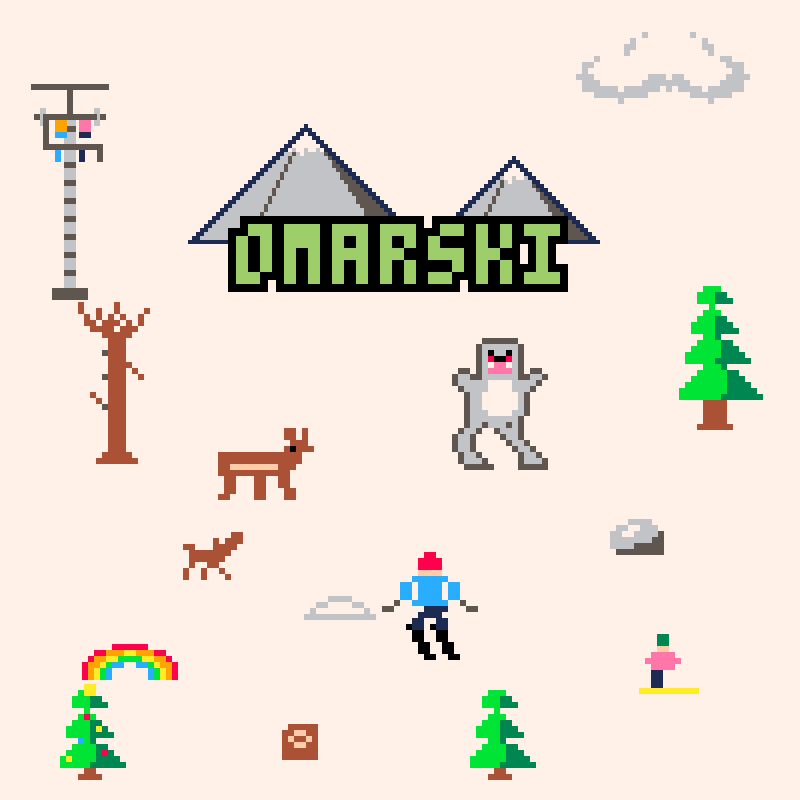
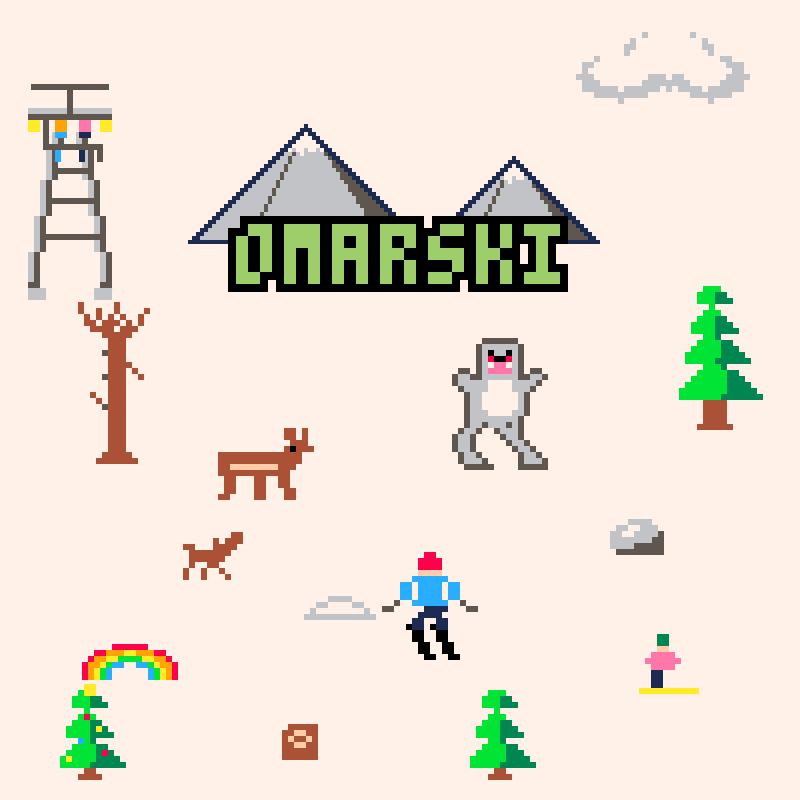
Omarski 4.3.1: rebuild the lift tower as a real A-frame pylon
The spindly lattice mast becomes a proper pylon: twin two-tone tube legs
spreading toward the ground, cross-braces every few metres, a full-width
crossarm with yellow cable sheaves hanging at each end, and concrete
footings at the base. Canvas grows to 14x32.

Changed region(s): [[0.0312, 0.125, 0.1562, 0.375]]

diff --git a/game/Sprites.js b/game/Sprites.js
@@ -187,7 +187,7 @@ var SIZES = {
   40: [15, 15], 41: [16, 16], 42: [16, 16], 43: [13, 15], 44: [15, 13],
   45: [12, 6], 46: [8, 6], 47: [8, 3], 48: [12, 4], 49: [14, 16],
   50: [11, 14], 51: [16, 32], 52: [16, 6], 53: [120, 44], 54: [88, 12],
-  55: [144, 26], 56: [96, 42], 64: [12, 32], 65: [13, 16], 66: [13, 16],
+  55: [144, 26], 56: [96, 42], 64: [14, 32], 65: [13, 16], 66: [13, 16],
   67: [13, 16], 68: [16, 24], 69: [16, 24], 70: [16, 24], 71: [16, 24],
   72: [16, 24], 73: [16, 24], 74: [16, 24], 75: [16, 24], 76: [16, 24],
   77: [16, 24], 78: [16, 24], 79: [16, 24], 80: [16, 24], 81: [16, 24],

diff --git a/tools/make-sprites.py b/tools/make-sprites.py
@@ -62,7 +62,7 @@ SIZES = {
     40: (15, 15), 41: (16, 16), 42: (16, 16), 43: (13, 15), 44: (15, 13),
     45: (12, 6), 46: (8, 6), 47: (8, 3), 48: (12, 4), 49: (14, 16),
     50: (11, 14), 51: (16, 32), 52: (16, 6), 53: (120, 44), 54: (88, 12),
-    55: (144, 26), 56: (96, 42), 64: (12, 32), 65: (13, 16), 66: (13, 16),
+    55: (144, 26), 56: (96, 42), 64: (14, 32), 65: (13, 16), 66: (13, 16),
     67: (13, 16), 68: (16, 24), 69: (16, 24), 70: (16, 24), 71: (16, 24),
     72: (16, 24), 73: (16, 24), 74: (16, 24), 75: (16, 24), 76: (16, 24),
     77: (16, 24), 78: (16, 24), 79: (16, 24), 80: (16, 24), 81: (16, 24),
@@ -971,16 +971,48 @@ ffBBBBf.
 # --- chairlift -------------------------------------------------------------
 
 
+# A proper A-frame pylon: twin tube legs spreading toward the ground,
+# cross-braced every few metres, a full-width crossarm on top with yellow
+# cable sheaves hanging at each end, concrete footings at the base.
+LIFT_TOWER = """
+ssssssssssssss
+dddddddddddddd
+yy..........yy
+yy..........yy
+....sd..sd....
+....sd..sd....
+....sdddsd....
+...sd....sd...
+...sd....sd...
+...sd....sd...
+...sddddddd...
+...sd....sd...
+..sd......sd..
+..sd......sd..
+..sd......sd..
+..sddddddddd..
+..sd......sd..
+..sd......sd..
+.sd........sd.
+.sd........sd.
+.sd........sd.
+.sddddddddddd.
+.sd........sd.
+.sd........sd.
+sd..........sd
+sd..........sd
+sd..........sd
+sd..........sd
+sd..........sd
+dd..........dd
+sss........sss
+sss........sss
+"""
+
+
 @sprite(64)
 def _lift_tower():
-    dst = canvas(12, 32)
-    fill_rect(dst, 0, 1, 12, 2, "d")            # crossarm
-    fill_rect(dst, 1, 0, 2, 3, "s")             # sheaves
-    fill_rect(dst, 10, 0, 11, 3, "s")
-    for y in range(2, 30):                       # lattice mast
-        dst[y][5] = dst[y][6] = "s" if y % 3 else "d"
-    fill_rect(dst, 3, 30, 9, 32, "d")            # footing
-    return dst
+    return place(LIFT_TOWER, 14, 32)
 
 
 def chair(riders):
